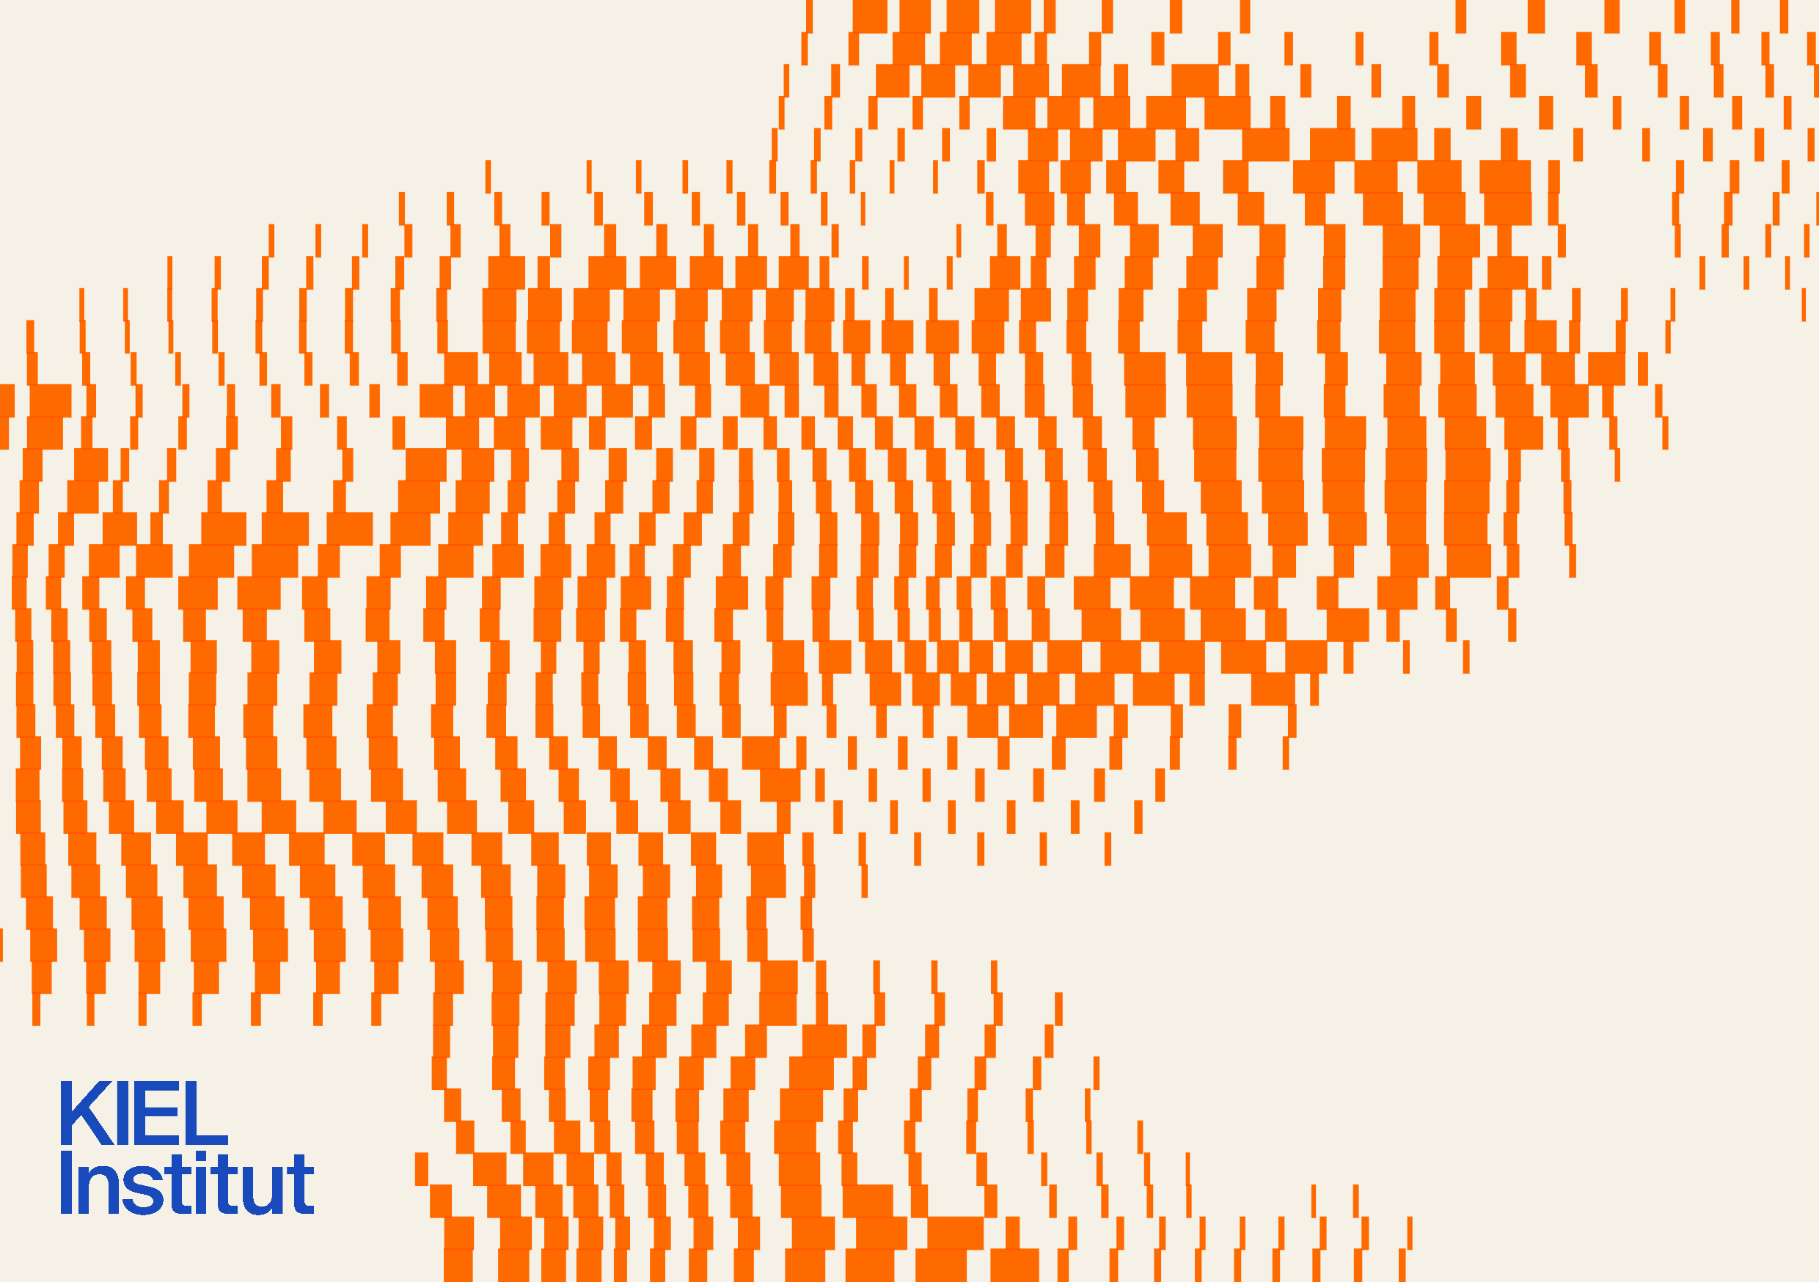
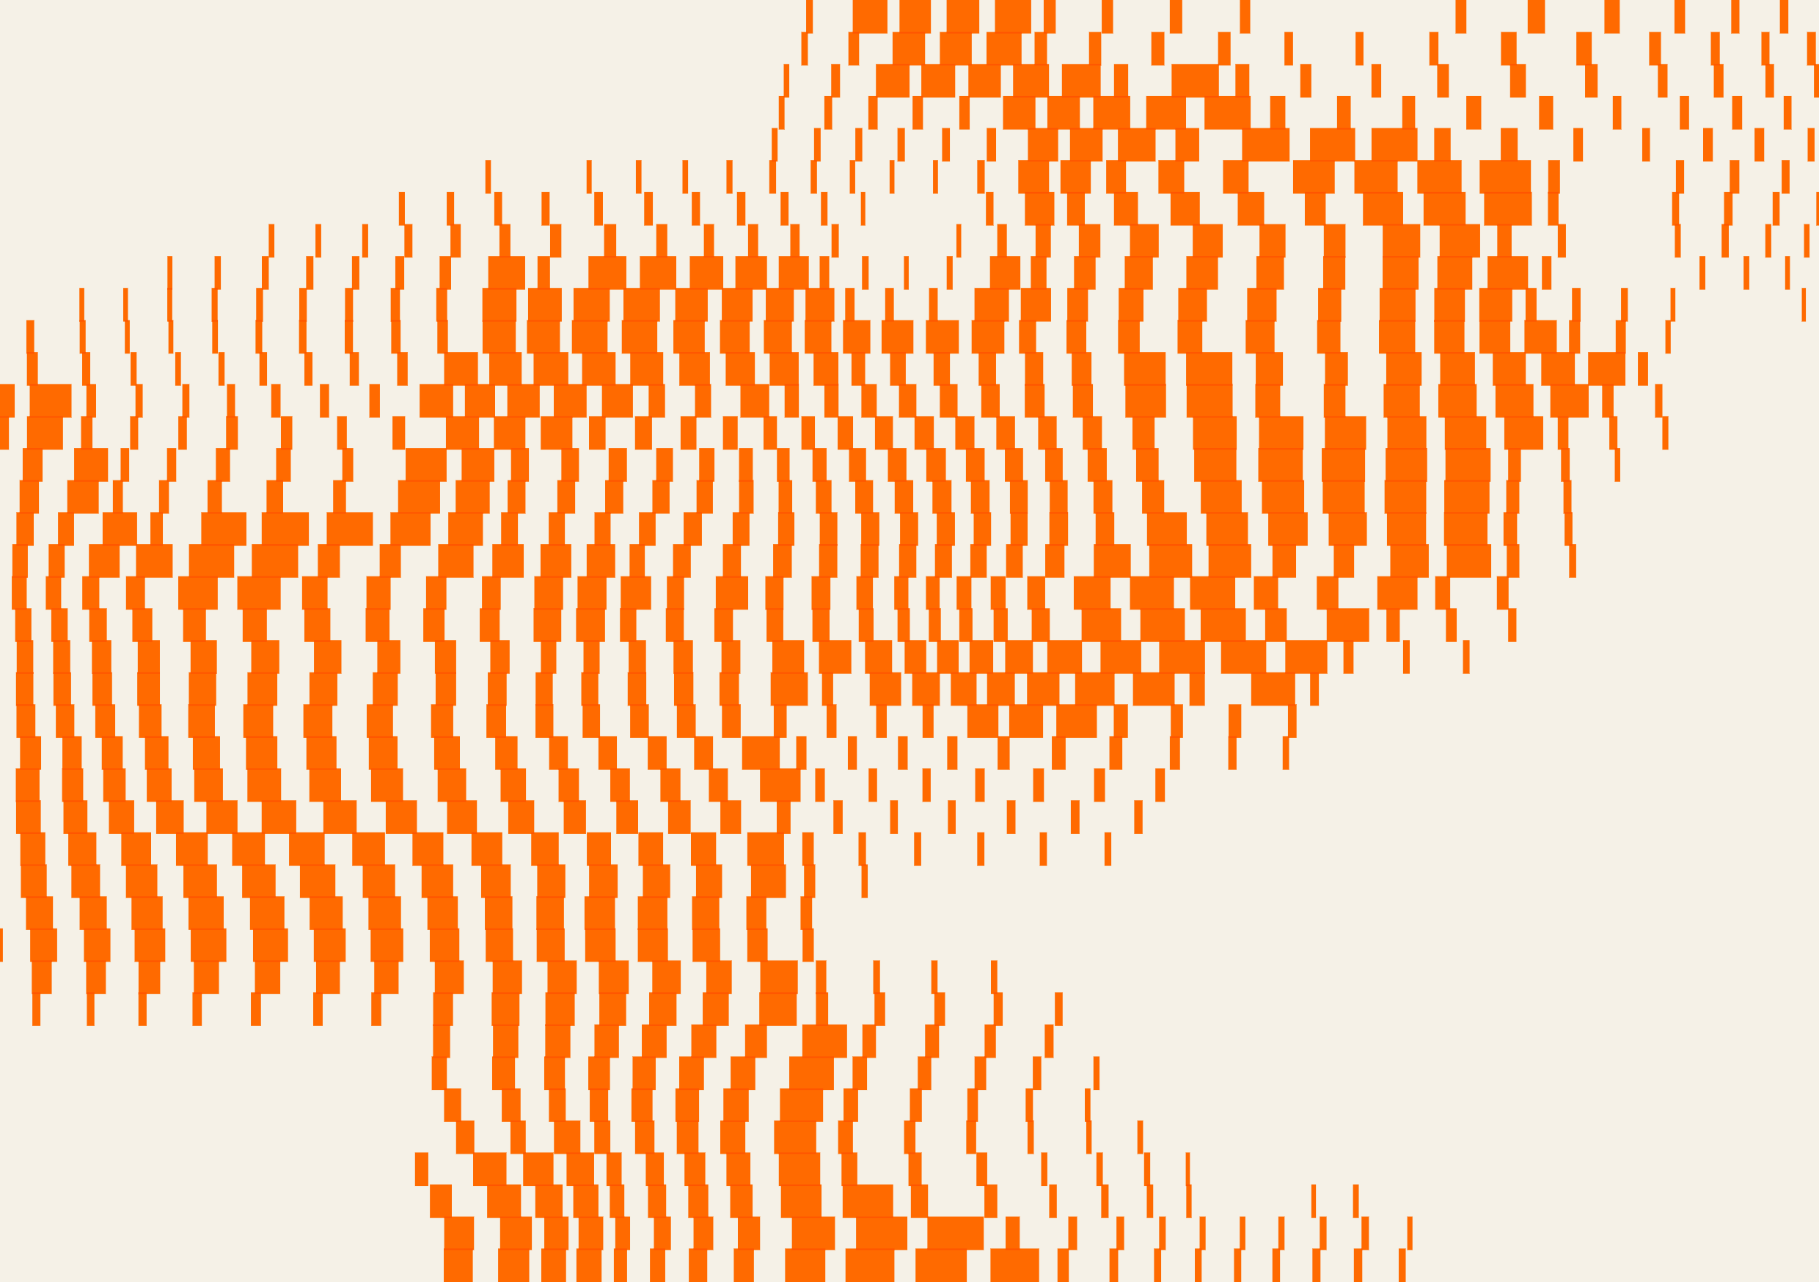
Landing: calmer cover that holds one screen
Three things were fighting for the page. The artwork's baked-in "KIEL
Institut" wordmark is painted out — the header already carries the logo,
and a second one low on the page read as clutter (that corner of the
image held no orange, so the wave is untouched). The wave itself drops
from roughly half the viewport to a quarter, and the text block starts
lower so it clears the header.

The cover also now sizes against viewport height as well as width —
min(Nvw, Nvh) inside each clamp — because a cover is one screenful by
definition: on a short laptop the headline gives way instead of pushing
the author line off the bottom.

Footer went minimal in the working tree, so the page no longer passes it
a credit snippet; attribution stays on each figure's own source note.

Changed region(s): [[0.0308, 0.8424, 0.1847, 0.9672]]

diff --git a/src/lib/components/charts/BarChartPanelGrouped.svelte b/src/lib/components/charts/BarChartPanelGrouped.svelte
@@ -4,15 +4,20 @@
      industrial production side by side per country group), which the
      horizontal single-series panel cannot express.
 
-     Two things differ from BarChartPanelHorizontal beyond the orientation:
-     colour comes from the *series* (each month has its own colour, shared
-     across every cluster) rather than per datum, and the y axis starts at a
-     non-zero baseline, because these are index values around 100 where a
-     zero baseline would flatten every difference the figure is about. That
+     Deliberately built as the plain LayerChart grouped-series example
+     (layerchart.com/docs/components/BarChart, "group series") plus this
+     report's axis theme, and nothing else: data, x, series, seriesLayout,
+     bandPadding, legend. Two earlier hand-rolled additions were what kept
+     the panel empty — a custom `xScale` and `groupPadding={2}`, where
+     groupPadding is a d3 band padding *fraction* and 2 collapses every bar
+     to zero width. Reach for a LayerChart prop before writing one.
+
+     The one thing that isn't from the example is the y axis: it starts at a
+     non-zero baseline, because these are index values around 100 where a zero
+     baseline would flatten every difference the figure is about. That
      truncation is the published chart's own choice — its axis runs 65 to 105
      — so `yDomain` is required from the figure rather than defaulted here. */
   import { BarChart, defaultChartPadding } from "layerchart";
-  import { scaleBand } from "d3-scale";
   import { xAxisProps, yAxisProps, yLabelPadding, desktopTooltips } from "$lib/chart-theme";
 
   let { pair } = $props();
@@ -21,53 +26,58 @@
   // Category labels ("Africa & Middle East") are long and there are only a
   // handful of clusters, so wrap them under their group instead of rotating.
   const labelWidth = $derived(innerWidth < 1024 ? 62 : 96);
+
+  // The legend is absolutely positioned inside the chart container, so it
+  // lands on top of the plot unless the padding reserves a strip for it:
+  // `legend: true` is what adds that strip (32px). The x tick labels wrap to
+  // two lines here, which the 20px default bottom can't hold either.
+  const padding = defaultChartPadding({
+    ...yLabelPadding,
+    right: 8,
+    bottom: 36,
+    legend: true,
+  });
 </script>
 
 <svelte:window bind:innerWidth />
 
-<div class="flex min-w-0 flex-1 flex-col">
-  <div class="min-h-0 flex-1">
-    <BarChart
-      data={pair.data}
-      x={pair.xKey}
-      xScale={scaleBand().paddingInner(0.28).paddingOuter(0.14)}
-      yDomain={pair.yDomain}
-      series={pair.series}
-      seriesLayout="group"
-      groupPadding={2}
-      legend={false}
-      grid={false}
-      rule={false}
-      tooltipContext={desktopTooltips(innerWidth)}
-      padding={defaultChartPadding({ ...yLabelPadding, right: 8 })}
-      props={{
-        xAxis: {
-          ...xAxisProps,
-          tickLabelProps: {
-            ...xAxisProps.tickLabelProps,
-            width: labelWidth,
-            truncate: false,
-            lineHeight: "12px",
-          },
-        },
-        yAxis: { ...yAxisProps, ticks: pair.yTicks },
-        // Square corners, like the original. Bars rise from the domain
-        // minimum rather than from zero (LayerChart clamps the bar's foot to
-        // `yDomain[0]`), which is what makes the truncated axis safe here.
-        bars: { strokeWidth: 0, rounded: "none", radius: 0 },
-        tooltip: { hideTotal: true },
-      }}
-    />
-  </div>
-
-  <!-- The report puts its series key on one line above the plot; here it sits
-       under it, matching the line panel's legend so both figures read alike. -->
-  <div class="flex flex-wrap items-center gap-x-3 gap-y-1 pt-3 pl-9 text-xs font-light">
-    {#each pair.series as item (item.key)}
-      <div class="flex items-center gap-1.5">
-        <span class="size-2.5 shrink-0 rounded-full" style:background-color={item.color}></span>
-        <span>{item.label ?? item.key}</span>
-      </div>
-    {/each}
-  </div>
-</div>
+<BarChart
+  data={pair.data}
+  x={pair.xKey}
+  series={pair.series}
+  seriesLayout="group"
+  bandPadding={0.2}
+  yDomain={pair.yDomain}
+  legend={{ placement: "bottom-left" }}
+  grid={false}
+  rule={false}
+  tooltipContext={desktopTooltips(innerWidth)}
+  {padding}
+  props={{
+    xAxis: {
+      ...xAxisProps,
+      format: "none",
+      tickLabelProps: {
+        ...xAxisProps.tickLabelProps,
+        width: labelWidth,
+        truncate: false,
+        lineHeight: "12px",
+      },
+    },
+    yAxis: { ...yAxisProps, ticks: pair.yTicks },
+    // Square corners and no outline, like the original — BarChart's own
+    // default is a 1px black stroke on every bar. Bars rise from the domain
+    // minimum rather than from zero (LayerChart clamps the bar's foot to
+    // `yDomain[0]`), which is what makes the truncated axis safe here.
+    bars: { rounded: "none", radius: 0, strokeWidth: 0 },
+    // Sits in the space `defaultChartPadding({ legend: true })` reserves
+    // below the axis, left-aligned with the plot rather than the container
+    // (hence the 36px pad, matching yLabelPadding's gutter), and scaled down
+    // from LayerChart's 16px swatch to the 10px dot the other panels use.
+    legend: {
+      class: "pl-9",
+      classes: { swatch: "size-2.5", label: "font-light" },
+    },
+    tooltip: { header: { format: "none" }, hideTotal: true },
+  }}
+/>

diff --git a/src/lib/components/Landing.svelte b/src/lib/components/Landing.svelte
@@ -6,11 +6,17 @@
      Intl Mono.
 
      The wave is the institute's own cover artwork, lifted from page 1 of the
-     PDF — the "KIEL Institut" wordmark is part of that image, bottom left,
-     exactly as it is on the cover. On paper it occupies the bottom half of a
-     portrait A4; a landscape browser window cannot hold those proportions, so
-     it is anchored to the bottom edge, full width, and cropped from the top,
-     which keeps both its dense lower half and the wordmark. -->
+     PDF, with their "KIEL Institut" wordmark painted out of its bottom-left
+     corner — on paper the wordmark is the cover's own signature, but here the
+     header already carries the logo and a second one low on the page just
+     read as clutter. (Nothing was lost: that corner of the artwork held no
+     orange.) Its background is the same cream as base-100, so the strip has
+     no visible edge.
+
+     Everything is sized against the viewport's *height* as well as its width
+     — `min(Nvw, Nvh)` inside each clamp — because a cover is one screenful by
+     definition: on a short laptop the headline has to give way rather than
+     push the author line off the bottom. -->
 <section
   class="relative flex min-h-screen flex-col overflow-hidden bg-base-100 font-sans text-secondary"
 >
@@ -18,18 +24,18 @@
     src="/kiel-cover-wave.png"
     alt=""
     aria-hidden="true"
-    class="pointer-events-none absolute inset-x-0 bottom-0 h-[38vh] w-full object-cover object-bottom-left select-none sm:h-[46vh]"
+    class="pointer-events-none absolute inset-x-0 bottom-0 h-[22vh] w-full object-cover object-bottom-left select-none sm:h-[27vh]"
   />
 
-  <!-- The bottom padding is the artwork's own height, so `mt-auto` lands the
+  <!-- Bottom padding matches the artwork's height, so `mt-auto` lands the
        author line just above the wave the way it does on the cover, rather
        than at the foot of the viewport underneath it. -->
   <div
-    class="relative z-10 flex flex-1 flex-col px-[4%] pt-24 pb-[38vh] sm:pt-28 sm:pb-[46vh]"
+    class="relative z-10 flex flex-1 flex-col px-[4%] pt-[clamp(7rem,16vh,11rem)] pb-[24vh] sm:pb-[29vh]"
   >
     <div class="flex items-start justify-between gap-6">
       <h1
-        class="text-[clamp(2.75rem,8.5vw,7.5rem)] leading-[0.94] font-medium tracking-[-0.02em]"
+        class="text-[clamp(2.5rem,min(8vw,12vh),7rem)] leading-[0.94] font-medium tracking-[-0.02em]"
       >
         Economic<br />Outlook
       </h1>
@@ -39,15 +45,15 @@
     </div>
 
     <p
-      class="mt-[3vh] text-[clamp(1.35rem,3.9vw,3.4rem)] leading-[1.1] font-medium tracking-[-0.02em]"
+      class="mt-[2.5vh] text-[clamp(1.25rem,min(3.6vw,5.2vh),3rem)] leading-[1.1] font-medium tracking-[-0.02em]"
     >
       World Economy in Summer 2026
     </p>
 
-    <p class="mt-[6vh] text-base font-medium sm:text-xl">Finalized June 10, 2026</p>
+    <p class="mt-[4vh] text-base font-medium sm:text-lg">Finalized June 10, 2026</p>
 
     <div
-      class="mt-auto flex flex-col gap-4 pt-[6vh] font-mono text-xs sm:flex-row sm:items-start sm:justify-between sm:gap-10 sm:text-sm"
+      class="mt-auto flex flex-col gap-3 pt-[4vh] font-mono text-xs sm:flex-row sm:items-start sm:justify-between sm:gap-10 sm:text-sm"
     >
       <p class="max-w-md leading-relaxed">
         Klaus-Jürgen Gern, Stefan Kooths, Johanna Krohn, Wan-Hsin Liu und Jan Reents
@@ -57,7 +63,7 @@
       </p>
     </div>
 
-    <p class="pt-6 font-mono text-xs text-secondary/70">
+    <p class="pt-4 font-mono text-xs text-secondary/70">
       Demo created by
       <a
         href="https://www.sandraviz.com/"

diff --git a/src/lib/data/figures/04-industrial-production.js b/src/lib/data/figures/04-industrial-production.js
@@ -26,12 +26,12 @@ export default {
   // exists to show. Ticks match the original's 5-point steps.
   yDomain: [65, 105],
   yTicks: [65, 70, 75, 80, 85, 90, 95, 100, 105],
-  // `key` has to be the data field, not the display text: for grouped bars
-  // LayerChart builds the sub-band scale from the series keys, while each
-  // Bars group looks itself up in that scale by the same key. Naming the
-  // series "01/2026" put "jan" in one and "01/2026" in the other, the lookup
-  // missed, and every bar came out at an undefined x. The month reading is
-  // carried by `label`, which is what the tooltip and the legend read.
+  // `key` is the data field, as in LayerChart's grouped-series example: for
+  // grouped bars the sub-band scale is built from the series keys, and each
+  // Bars group looks itself up in that scale by the same key, so a key that
+  // isn't the field name leaves every bar at an undefined x. The month
+  // reading rides along as `label`, which is what the legend and the tooltip
+  // print.
   series: [
     { key: "jan", label: "01/2026", color: colors.highlight },
     { key: "feb", label: "02/2026", color: colors.lightBlue },

diff --git a/src/routes/+page.svelte b/src/routes/+page.svelte
@@ -121,16 +121,4 @@
   {/if}
 {/each}
 
-<Footer>
-  {#snippet disclosure()}
-    <p>
-      Content and data: Kiel Institute for the World Economy, <em>Economic Outlook</em> Nr. 133
-      (2026 | Q2), “World Economy in Summer 2026: Iran War Still Weighs on Growth”, by
-      Klaus-Jürgen Gern, Stefan Kooths, Johanna Krohn, Wan-Hsin Liu and Jan Reents, Research Group
-      Business Cycles and Growth, finalized June 10, 2026. © 2026 Kiel Institut für Weltwirtschaft.
-      Figures 3, 4 and 5 are reproduced here from the published charts; their series were digitized
-      from the report PDF, so values carry small reading errors and every rate quoted in the text
-      is the report's own. Interactive design and development: SandraViz.
-    </p>
-  {/snippet}
-</Footer>
+<Footer />

diff --git a/src/lib/components/Footer.svelte b/src/lib/components/Footer.svelte
@@ -1,7 +1,3 @@
-<script>
-  let { disclosure } = $props();
-</script>
-
 <footer class="relative flex min-h-screen flex-col bg-base-100 font-sans text-base-content">
   <div class="mx-auto flex w-full max-w-350 flex-1 flex-col justify-center">
     <div
@@ -61,12 +57,4 @@
       </div>
     </div>
   </div>
-
-  {#if disclosure}
-    <div class="mx-auto w-full max-w-350 px-6 pb-4 sm:px-10 sm:pb-6">
-      <div class="text-left text-[10px] leading-relaxed text-base-content/40">
-        {@render disclosure()}
-      </div>
-    </div>
-  {/if}
 </footer>

diff --git a/docs/kiel-brand.md b/docs/kiel-brand.md
@@ -107,11 +107,20 @@ the headline sits at roughly 10.6 percent of page width with the two lines set s
 (leading ≈ 0.94), the title at about 4.9 percent, and the artwork fills the bottom half.
 
 `static/kiel-cover-wave.png` is the institute's own cover artwork, extracted with
-`pdfimages -png -f 1 -l 1` from page 1 — the blue "KIEL Institut" wordmark is baked into
-that image at bottom left, exactly as it is on the cover, and its background is the same
-`#f5f1e7`, so it sits seamlessly on `base-100`. A landscape browser window cannot hold a
-portrait A4's proportions, so on screen the artwork is anchored to the bottom edge, full
-width, and cropped from the top, which keeps its dense lower half and the wordmark.
+`pdfimages -png -f 1 -l 1` from page 1. Its background is the same `#f5f1e7`, so the strip
+sits on `base-100` with no visible edge. Two changes from the printed original:
+
+- The blue "KIEL Institut" wordmark baked into the image's bottom-left corner is **painted
+  out** (that box held no orange, so the wave is untouched). On paper it is the cover's
+  signature; on screen the header already carries the logo, and a second one low on the
+  page just reads as clutter.
+- A landscape browser window cannot hold a portrait A4's proportions, so the artwork is a
+  band anchored to the bottom edge — full width, cropped from the top, about a quarter of
+  the viewport's height rather than half of it.
+
+Everything on the cover is sized against viewport *height* as well as width
+(`min(Nvw, Nvh)` inside each clamp): a cover is one screenful by definition, so on a short
+laptop the headline has to give way rather than push the author line off the bottom.
 
 The source PDF is public:
 `kielinstitut.de/fileadmin/Dateiverwaltung/IfW-Publications/fis-import/c803572d-aaf5-4658-a326-32b5c3956a11-_KKB_133_2026-Q2_Welt_EN.pdf`
